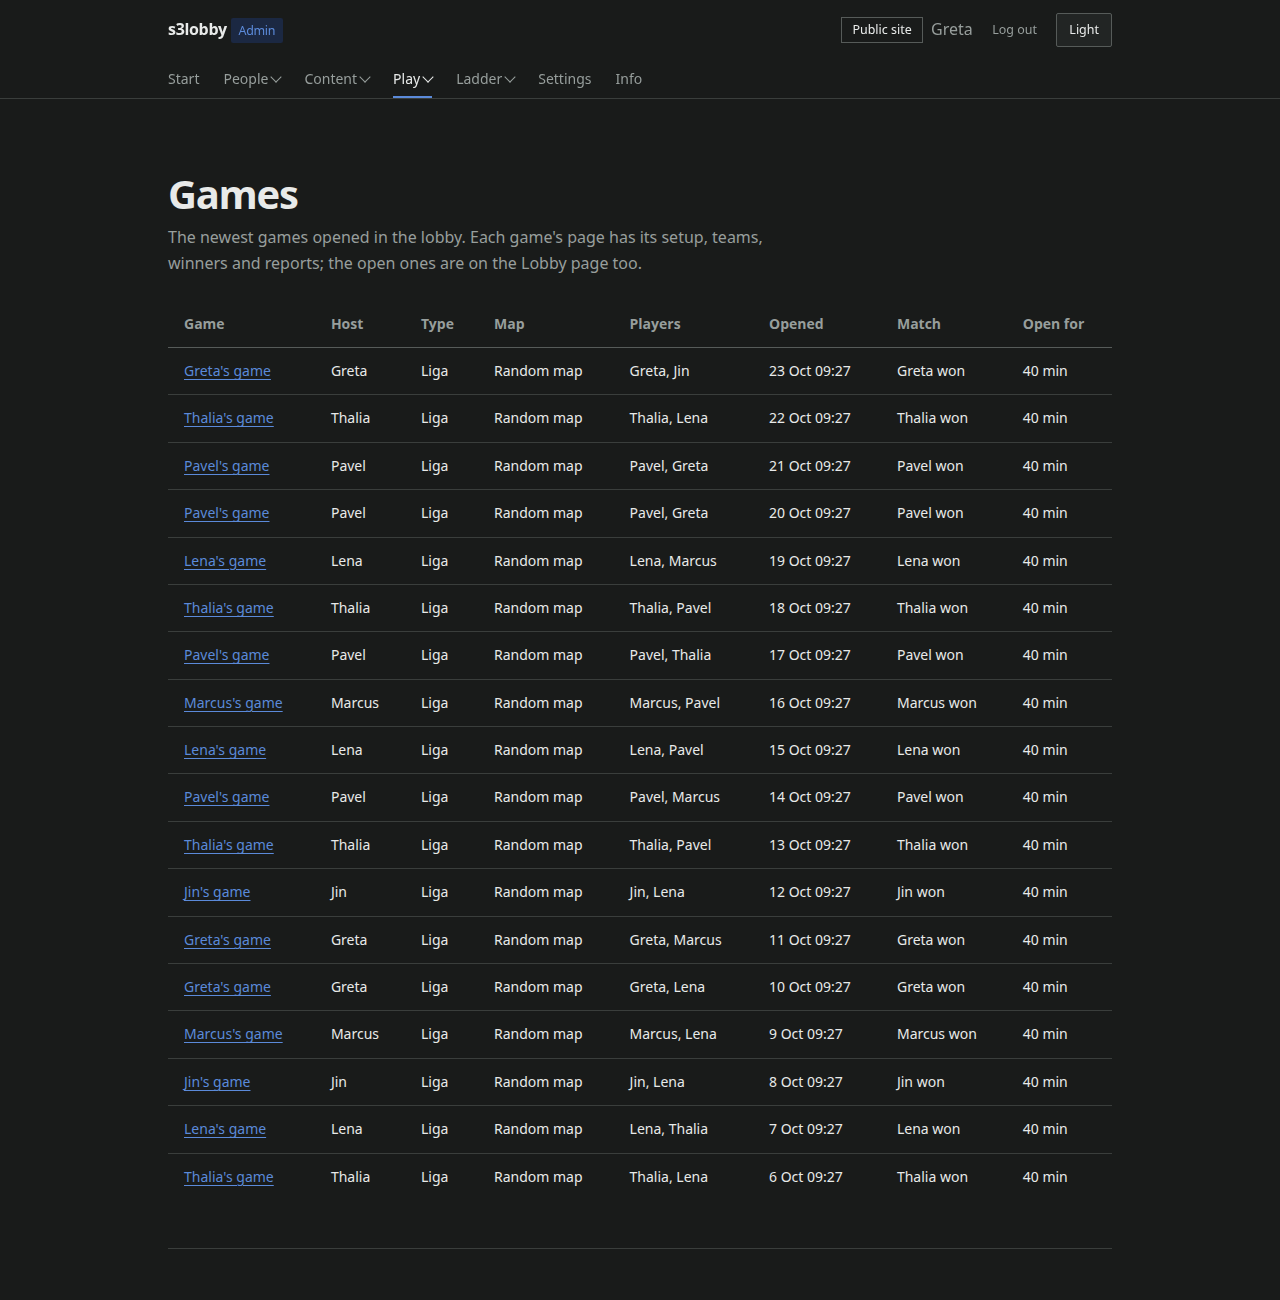
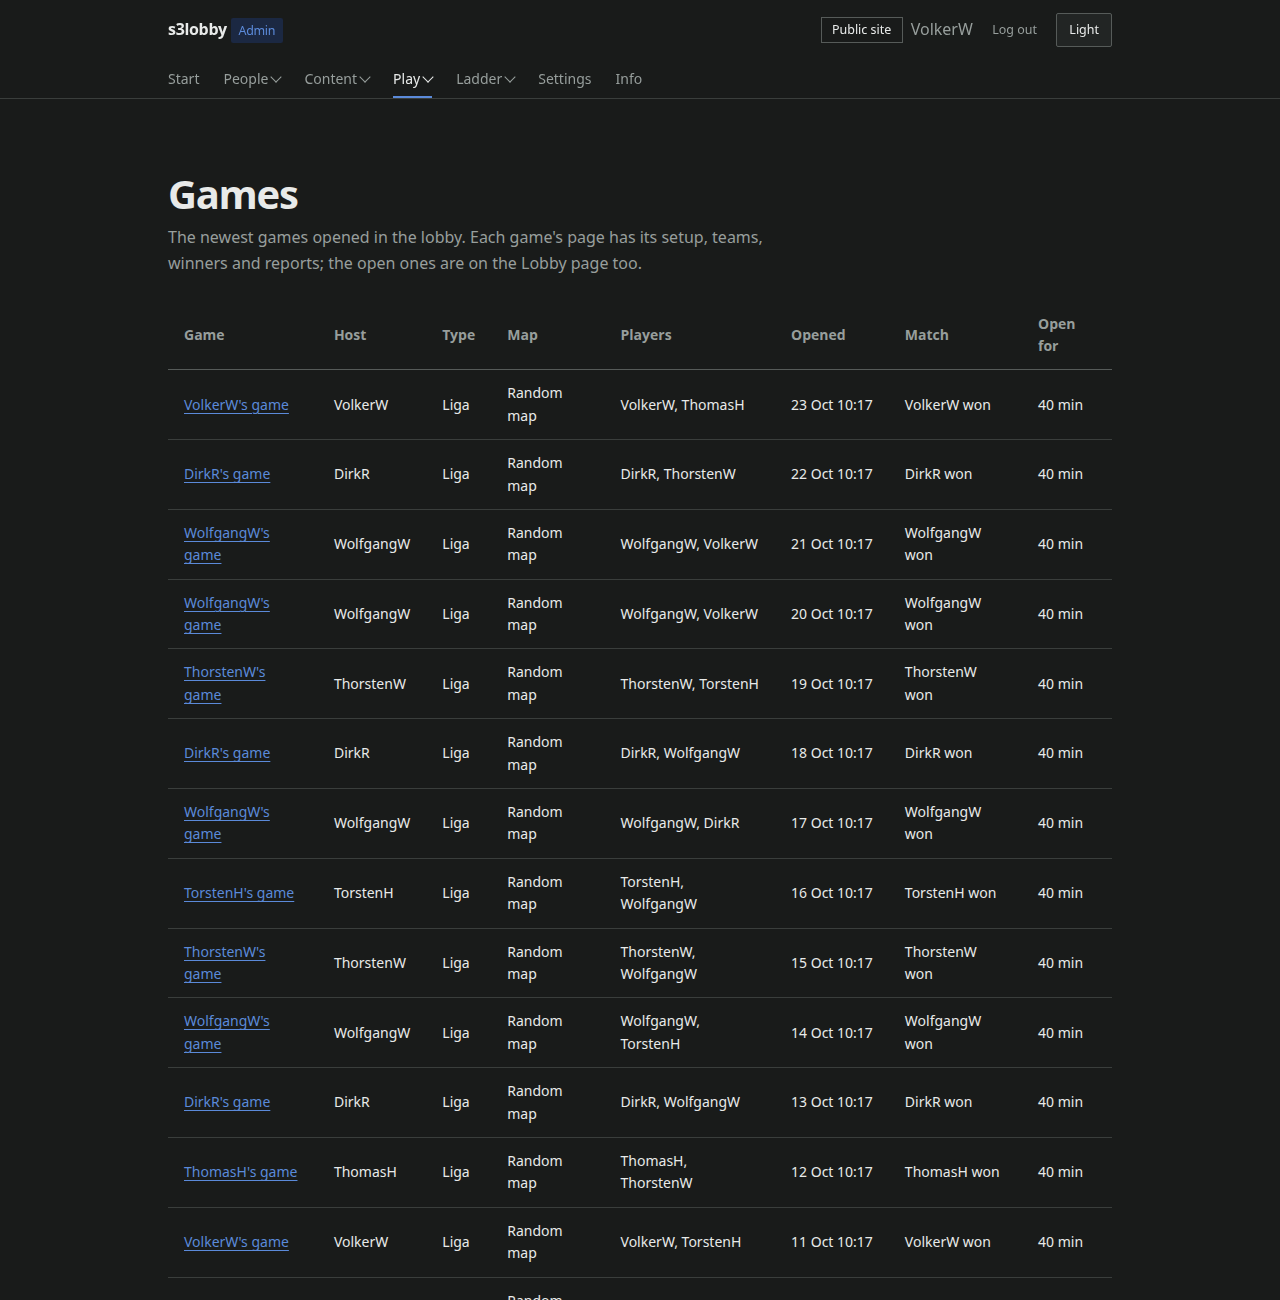
docs(readme): credit the makers of The Settlers III
The demo players in the screenshots carry the names of the game's team,
first name and initial, and a Credits section thanks them, and Volker
Wertich for his advice and inspiration twenty years ago.

diff --git a/scripts/readme_screenshots.py b/scripts/readme_screenshots.py
@@ -71,8 +71,12 @@ SCRIPT_TIME_BUDGET_MS = 2000
 BOTTOM_MARGIN = 48
 HEIGHT_LIMITS = {"games": 1300}
 # The demo: its players (the first is the admin who logs on), the random seed that picks who
-# played whom, and how many days of ladder games it holds.
-PLAYER_NAMES = ("Greta", "Thalia", "Jin", "Marcus", "Lena", "Pavel", "Ivo", "Sanna")
+# played whom, and how many days of ladder games it holds. The players carry the names of the
+# people who made The Settlers III (Blue Byte, 1998), a small thank-you; only the last one, banned
+# in the demo, is made up.
+PLAYER_NAMES = (
+    "VolkerW", "DirkR", "ThomasH", "TorstenH", "ThorstenW", "WolfgangW", "HaikoR", "Sanna",
+)
 DEMO_SEED = 3
 DEMO_DAYS = 18
 DEMO_START_DAYS_AGO = 20
@@ -117,7 +121,7 @@ def readme_shots(accounts: dict[str, int]) -> list[Shot]:
     return [
         Shot("live-lobby", "/", False),
         Shot("ladder", "/ladder", False),
-        Shot("player", "/players/Thalia", False),
+        Shot("player", "/players/DirkR", False),
         Shot("admin-start", "/admin/", True),
         Shot("admin-lobby", "/admin/lobby", True),
         Shot("ladder-members", "/admin/ladder/members", True),
@@ -125,7 +129,7 @@ def readme_shots(accounts: dict[str, int]) -> list[Shot]:
         Shot("chat-themes", "/admin/chat-themes", True),
         Shot("games", "/admin/games", True),
         Shot("game-details", "/admin/games/1", True),
-        Shot("account", f"/admin/accounts/{accounts['Jin']}", True),
+        Shot("account", f"/admin/accounts/{accounts['ThomasH']}", True),
         Shot("clans", "/admin/clans", True),
         Shot("info", "/admin/info", True),
     ]
@@ -177,8 +181,8 @@ def add_players_and_content(database: LobbyDatabase, now: datetime) -> dict[str,
     romans = database.create_clan("Romans").clan_id
     blue_byte = database.create_clan("BB").clan_id
     database.set_clan_highlighted(blue_byte, True)
-    database.set_clan_of_account(accounts["Marcus"], romans)
-    database.set_clan_of_account(accounts["Jin"], blue_byte)
+    database.set_clan_of_account(accounts["TorstenH"], romans)
+    database.set_clan_of_account(accounts["ThomasH"], blue_byte)
     database.ban_account(accounts["Sanna"], now + timedelta(days=1), "spamming the chat")
     # What players read: news, a theme of the admins' own with the permanent groups on, the board.
     database.set_setting(Setting.PERMANENT_CHAT_GROUPS, "true")
@@ -186,14 +190,16 @@ def add_players_and_content(database: LobbyDatabase, now: datetime) -> dict[str,
     database.set_news("other", "Welcome", "Welcome to the LAN lobby!\nFriday from 20:00: open evening.")
     database.add_chat_theme("Tactics", "Builds and openings")
     board = database.add_board_theme("English", "Tournaments", "Cups and dates")
-    database.post_board_message(board.theme_id, "Autumn Cup", "Saturday from 14:00, sign up with Greta.", author="Greta")
+    database.post_board_message(
+        board.theme_id, "Autumn Cup", "Saturday from 14:00, sign up with VolkerW.", author="VolkerW"
+    )
     server_theme = database.add_board_theme(
         "English", "Ladder", "Seasons and weekly summaries, written by the server", is_server_written=True
     )
     database.post_board_message(
         server_theme.theme_id,
         "Week of 5 Oct 2026 to 11 Oct 2026",
-        "Standings (infinite season)\n1. Thalia 1097\n2. Marcus 1076",
+        "Standings (infinite season)\n1. DirkR 1097\n2. TorstenH 1076",
         is_by_server=True,
     )
     database.queue_announcement("Server restart at 22:00")
@@ -272,25 +278,34 @@ def demo_live_state(accounts: dict[str, int], now: datetime) -> LiveLobbyState:
     meeting_room = CHAT_THEME_GROUP_ID_BASE + 1
     online_since = now.isoformat()
     players = (
-        LivePlayer(accounts["Greta"], "Greta", "", True, "192.168.1.20:3343", online_since, (game_group_id,), "open", "green"),
-        LivePlayer(accounts["Thalia"], "Thalia", "", False, "192.168.1.21:3343", online_since, (game_group_id,), "open", ""),
         LivePlayer(
-            accounts["Marcus"], "Marcus", "Romans", False, "198.51.100.4:3343", online_since,
+            accounts["VolkerW"], "VolkerW", "", True, "192.168.1.20:3343", online_since,
+            (game_group_id,), "open", "green",
+        ),
+        LivePlayer(accounts["DirkR"], "DirkR", "", False, "192.168.1.21:3343", online_since, (game_group_id,), "open", ""),
+        LivePlayer(
+            accounts["TorstenH"], "TorstenH", "Romans", False, "198.51.100.4:3343", online_since,
             (GAME_ZONE_GROUP_ID, LEAGUE_ZONE_ID), "open", "",
         ),
-        LivePlayer(accounts["Jin"], "Jin", "BB", False, "203.0.113.9:3343", online_since, (chat_group_id,), "blocked", "blue"),
-        LivePlayer(accounts["Lena"], "Lena", "", False, "192.168.1.23:3343", online_since, (chat_group_id,), "open", ""),
+        LivePlayer(
+            accounts["ThomasH"], "ThomasH", "BB", False, "203.0.113.9:3343", online_since,
+            (chat_group_id,), "blocked", "blue",
+        ),
+        LivePlayer(accounts["ThorstenW"], "ThorstenW", "", False, "192.168.1.23:3343", online_since, (chat_group_id,), "open", ""),
     )
     groups = (
         LiveGroup(
-            game_group_id, GroupKind.GAME.value, "Greta's game", 4, False, False, ("Greta", "Thalia"),
+            game_group_id, GroupKind.GAME.value, "VolkerW's game", 4, False, False, ("VolkerW", "DirkR"),
             (LEAGUE_ZONE_ID,), MAP_NAME, 2, True,
         ),
-        LiveGroup(chat_group_id, GroupKind.CHAT_GROUP.value, "Tactics talk", 0, False, False, ("Jin", "Lena"), (meeting_room,)),
-        LiveGroup(meeting_room, GroupKind.ROOM.value, "Meeting Room", 0, False, False, (), (CHAT_ZONE_GROUP_ID,)),
-        LiveGroup(GAME_ZONE_GROUP_ID, GroupKind.ROOM.value, "GameZone", 0, False, False, ("Marcus",)),
         LiveGroup(
-            LEAGUE_ZONE_ID, GroupKind.ROOM.value, "League 1 vs 1", 0, False, False, ("Marcus",), (GAME_ZONE_GROUP_ID,)
+            chat_group_id, GroupKind.CHAT_GROUP.value, "Tactics talk", 0, False, False,
+            ("ThomasH", "ThorstenW"), (meeting_room,),
+        ),
+        LiveGroup(meeting_room, GroupKind.ROOM.value, "Meeting Room", 0, False, False, (), (CHAT_ZONE_GROUP_ID,)),
+        LiveGroup(GAME_ZONE_GROUP_ID, GroupKind.ROOM.value, "GameZone", 0, False, False, ("TorstenH",)),
+        LiveGroup(
+            LEAGUE_ZONE_ID, GroupKind.ROOM.value, "League 1 vs 1", 0, False, False, ("TorstenH",), (GAME_ZONE_GROUP_ID,)
         ),
     )
     return LiveLobbyState(server_name="LAN Lobby", players=players, groups=groups)

diff --git a/s3lobby/web/games.py b/s3lobby/web/games.py
@@ -127,7 +127,7 @@ class GameRow:
     match_started_at: datetime | None = None
     outcome_text: str = ""
     reports: tuple[ReportRow, ...] = field(default=())
-    # Who won, by name ("Greta won"), for the list; empty while the match is undecided.
+    # Who won, by name ("DirkR won"), for the list; empty while the match is undecided.
     winner_text: str = ""
     # The game type in one word for the list: Normal, Liga or Clanliga.
     type_text: str = ""

diff --git a/README.md b/README.md
@@ -56,6 +56,7 @@ files: point the game at your server and log on.
 - [How it works](#how-it-works)
 - [Roadmap](#roadmap)
 - [Development](#development)
+- [Credits](#credits)
 - [Legal](#legal)
 
 ## Features
@@ -814,6 +815,17 @@ podman run -d --rm --name s3lobby-mysql -p 127.0.0.1:3306:3306 \
     -e MYSQL_USER=s3lobby -e MYSQL_PASSWORD=s3lobby docker.io/library/mysql:8.4
 S3LOBBY_TEST_DATABASE=mysql://s3lobby:s3lobby@127.0.0.1:3306/s3lobby_test .venv/bin/python -m unittest
 ```
+
+## Credits
+
+The Settlers III was made by Blue Byte in 1998; without their game there would be nothing to
+bring back. Among many others: Volker Wertich (design and programming, and the creator of The
+Settlers), Thomas Hertzler (producer), Dirk Ringe (programming), Torsten Hess (graphics), Thorsten
+Wallner (characters and animation), Wolfgang Walk (story) and Haiko Ruttmann (music). The players
+in the screenshots carry their names, as first name and initial (VolkerW, ThomasH, ...).
+
+A personal thank-you goes to **Volker Wertich**, who gave the author advice and inspiration some
+twenty years ago.
 
 ## Legal
 

diff --git a/docs/ladder.md b/docs/ladder.md
@@ -248,7 +248,7 @@ because the game picks the news by its language (0x45351b) and the board by its 
   because a line at every logon is noise for players who do not play the ladder; it is only sent
   to players with a place in the infinite season's Liga, which takes a current membership.
 - **Announcements to everyone online** only for the end of a custom season ("Autumn Cup is over:
-  Jin wins with 1088"), since that is the one event everyone should hear at once.
+  ThomasH wins with 1088"), since that is the one event everyone should hear at once.
 
 Per match, nothing is written to the board or the news: a busy evening would push everything else
 out, and the match line and the web page already carry it.

diff --git a/CHANGELOG.md b/CHANGELOG.md
@@ -6,6 +6,11 @@ version may change behaviour; the owner decides when 1.0.0 comes.
 
 ## [Unreleased]
 
+### Added
+
+- A Credits section in the README for the people who made The Settlers III, with a thank-you to
+  Volker Wertich; the demo players in the screenshots now carry their names.
+
 ## [0.12.1] - 2026-10-24
 
 ### Added
